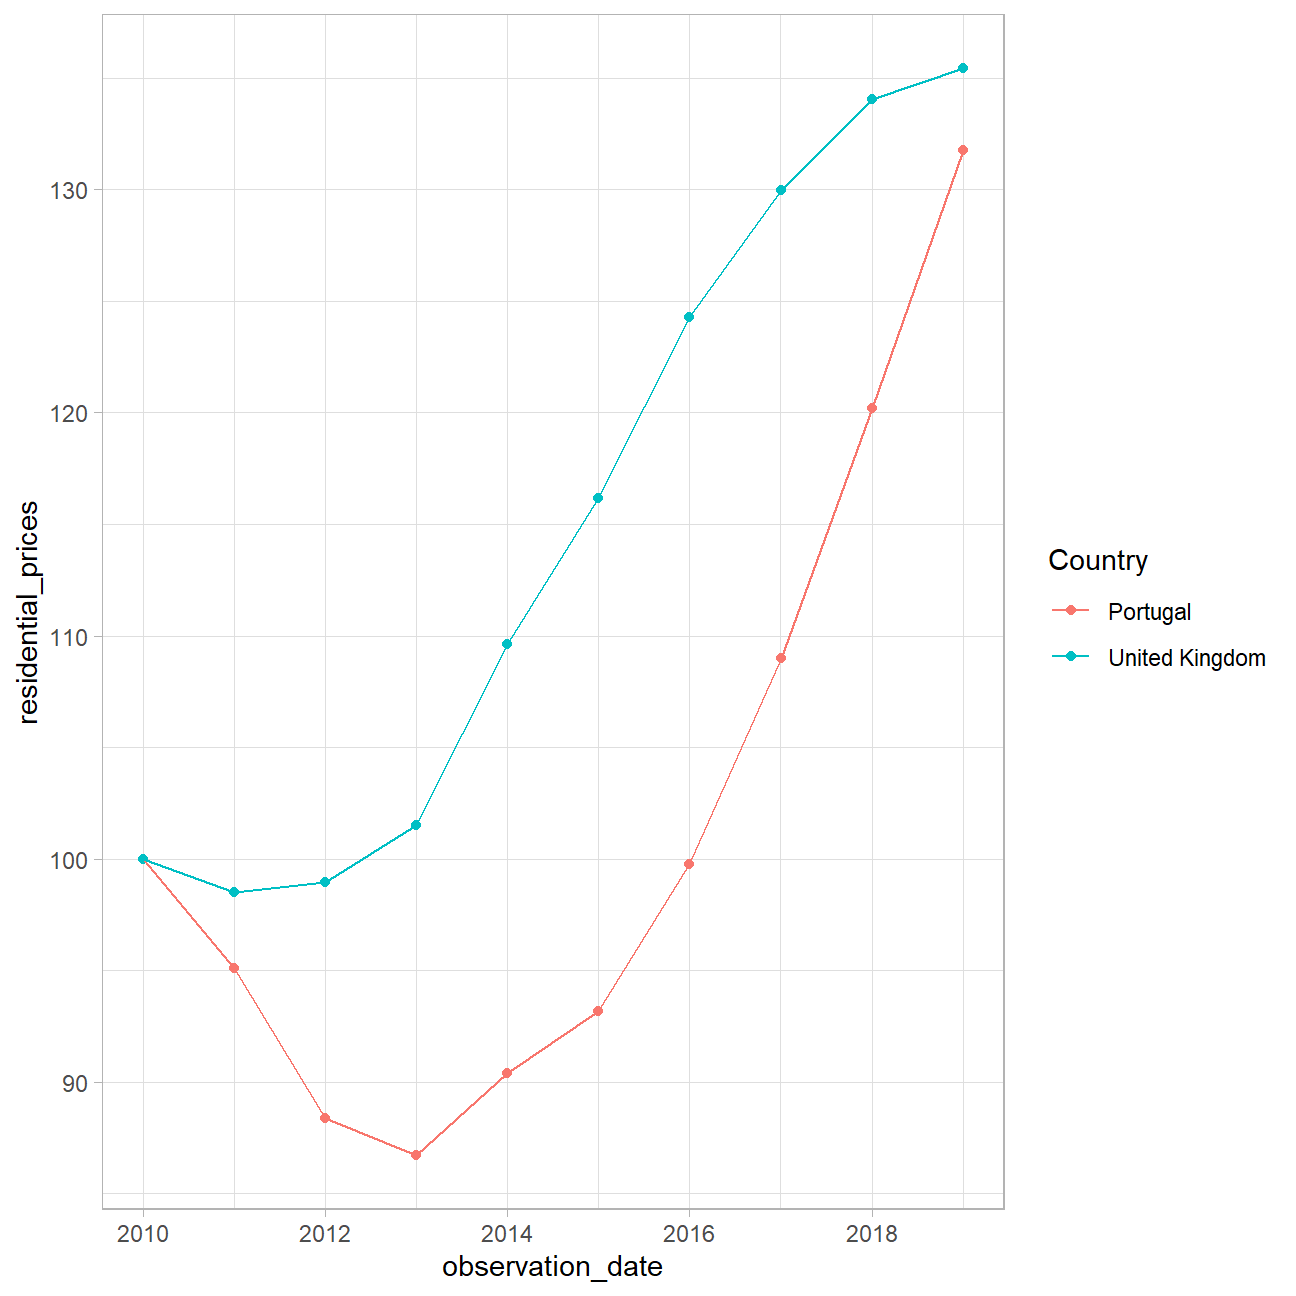
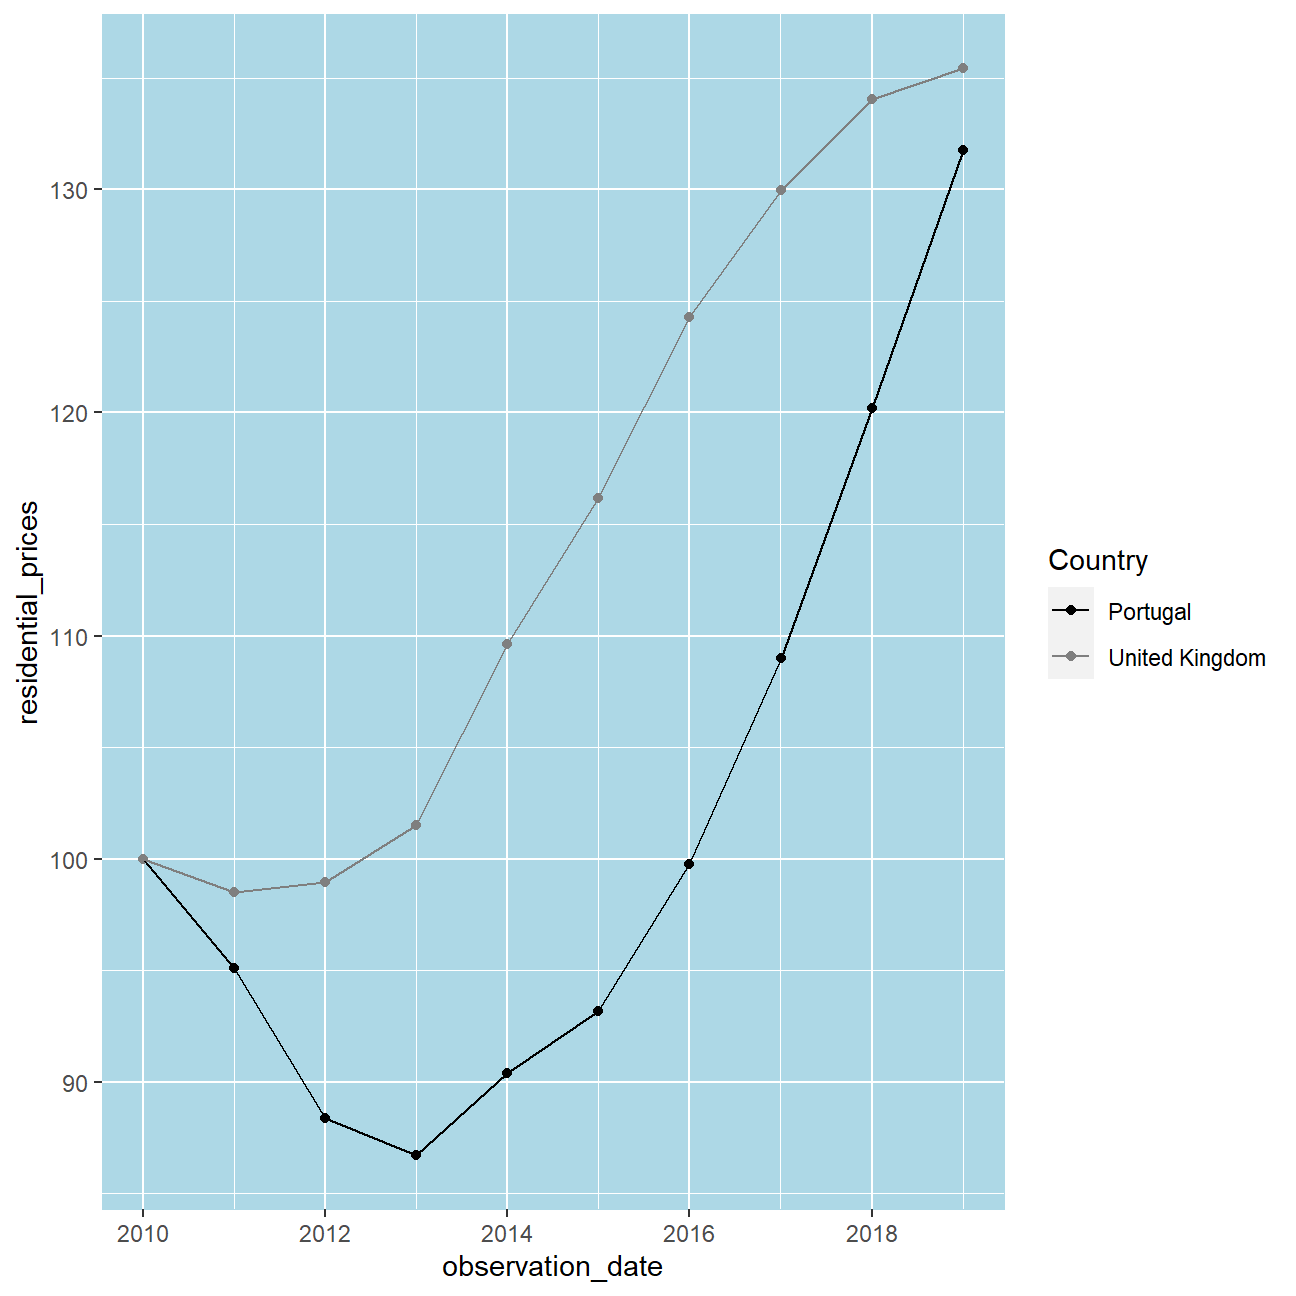
n

diff --git a/content/projects/project4/index.html b/content/projects/project4/index.html
@@ -23,7 +23,10 @@ title: Covid-19
   ggplot(mapping = aes(x = `date`, y = `total_cases`, color = `location`)) +
   scale_x_date(date_breaks = &quot;2 month&quot;) +
   geom_point() +
-  theme_light()
+  theme(panel.background = element_rect(fill = &quot;lightblue&quot;,
+                                colour = &quot;lightblue&quot;,
+                                size = 0.5, linetype = &quot;solid&quot;)) +
+  scale_colour_manual(values = &quot;grey50&quot;)
 
 plot1c</code></pre>
 <p><img src="/projects/project4/index_files/figure-html/unnamed-chunk-3-1.png" width="648" style="display: block; margin: auto;" /></p>
@@ -32,7 +35,11 @@ plot1c</code></pre>
   ggplot(mapping = aes(x = `date`, y = `total_cases_per_million`, color = `location`)) +
   scale_x_date(date_breaks = &quot;2 month&quot;) +
   geom_point() +
-  theme_light()
+  theme(panel.background = element_rect(fill = &quot;lightblue&quot;,
+                                colour = &quot;lightblue&quot;,
+                                size = 0.5, linetype = &quot;solid&quot;)) +
+  scale_colour_manual(values = c(&quot;grey50&quot;, &quot;black&quot;, &quot;white&quot;)) +
+  labs(y = &quot;Total cases per million&quot;, x = &quot;Date&quot;)
 
 plot2c</code></pre>
 <p><img src="/projects/project4/index_files/figure-html/unnamed-chunk-4-1.png" width="648" style="display: block; margin: auto;" /></p>

diff --git a/public/projects/project4/index.html b/public/projects/project4/index.html
@@ -91,7 +91,10 @@
   ggplot(mapping = aes(x = `date`, y = `total_cases`, color = `location`)) +
   scale_x_date(date_breaks = &quot;2 month&quot;) +
   geom_point() +
-  theme_light()
+  theme(panel.background = element_rect(fill = &quot;lightblue&quot;,
+                                colour = &quot;lightblue&quot;,
+                                size = 0.5, linetype = &quot;solid&quot;)) +
+  scale_colour_manual(values = &quot;grey50&quot;)
 
 plot1c</code></pre>
 <p><img src="/projects/project4/index_files/figure-html/unnamed-chunk-3-1.png" width="648" style="display: block; margin: auto;" /></p>
@@ -100,7 +103,11 @@ plot1c</code></pre>
   ggplot(mapping = aes(x = `date`, y = `total_cases_per_million`, color = `location`)) +
   scale_x_date(date_breaks = &quot;2 month&quot;) +
   geom_point() +
-  theme_light()
+  theme(panel.background = element_rect(fill = &quot;lightblue&quot;,
+                                colour = &quot;lightblue&quot;,
+                                size = 0.5, linetype = &quot;solid&quot;)) +
+  scale_colour_manual(values = c(&quot;grey50&quot;, &quot;black&quot;, &quot;white&quot;)) +
+  labs(y = &quot;Total cases per million&quot;, x = &quot;Date&quot;)
 
 plot2c</code></pre>
 <p><img src="/projects/project4/index_files/figure-html/unnamed-chunk-4-1.png" width="648" style="display: block; margin: auto;" /></p>

diff --git a/public/projects/project1/index.html b/public/projects/project1/index.html
@@ -98,17 +98,22 @@
 <pre class="r"><code>plot1 &lt;- portugal_data %&gt;% 
   ggplot(mapping = aes(x = `Year`, y = `Population`)) +
   geom_line() +
-  theme_light()
+  theme(panel.background = element_rect(fill = &quot;lightblue&quot;,
+                                colour = &quot;lightblue&quot;,
+                                size = 0.9, linetype = &quot;solid&quot;))
 
 plot1</code></pre>
 <p><img src="/projects/project1/index_files/figure-html/population_growth_Portugal-1.png" width="648" style="display: block; margin: auto;" /></p>
 <pre class="r"><code>plot2 &lt;- portugal_data %&gt;% 
   ggplot(mapping = aes(x = `Year`, y = `GDP`)) +
   geom_line() +
-  theme_light()
+  theme(panel.background = element_rect(fill = &quot;lightblue&quot;,
+                                colour = &quot;lightblue&quot;,
+                                size = 0.9, linetype = &quot;solid&quot;))
 
 plot2</code></pre>
 <p><img src="/projects/project1/index_files/figure-html/GDP_growth_Portugal-1.png" width="648" style="display: block; margin: auto;" /></p>
+<p>Source: <a href="https://databank.worldbank.org/reports.aspx?source=2&amp;series=SP.POP.TOTL&amp;country=PRT#" class="uri">https://databank.worldbank.org/reports.aspx?source=2&amp;series=SP.POP.TOTL&amp;country=PRT#</a></p>
 </div>
 
                         </div>

diff --git a/content/projects/project1/index.html b/content/projects/project1/index.html
@@ -30,15 +30,20 @@ categories:
 <pre class="r"><code>plot1 &lt;- portugal_data %&gt;% 
   ggplot(mapping = aes(x = `Year`, y = `Population`)) +
   geom_line() +
-  theme_light()
+  theme(panel.background = element_rect(fill = &quot;lightblue&quot;,
+                                colour = &quot;lightblue&quot;,
+                                size = 0.9, linetype = &quot;solid&quot;))
 
 plot1</code></pre>
 <p><img src="/projects/project1/index_files/figure-html/population_growth_Portugal-1.png" width="648" style="display: block; margin: auto;" /></p>
 <pre class="r"><code>plot2 &lt;- portugal_data %&gt;% 
   ggplot(mapping = aes(x = `Year`, y = `GDP`)) +
   geom_line() +
-  theme_light()
+  theme(panel.background = element_rect(fill = &quot;lightblue&quot;,
+                                colour = &quot;lightblue&quot;,
+                                size = 0.9, linetype = &quot;solid&quot;))
 
 plot2</code></pre>
 <p><img src="/projects/project1/index_files/figure-html/GDP_growth_Portugal-1.png" width="648" style="display: block; margin: auto;" /></p>
+<p>Source: <a href="https://databank.worldbank.org/reports.aspx?source=2&amp;series=SP.POP.TOTL&amp;country=PRT#" class="uri">https://databank.worldbank.org/reports.aspx?source=2&amp;series=SP.POP.TOTL&amp;country=PRT#</a></p>
 </div>

diff --git a/content/projects/project3/index.html b/content/projects/project3/index.html
@@ -22,7 +22,10 @@ title: Real Estate
   ggplot(mapping = aes(x = `observation_date`, y = `%_change`, color = Country)) +
   geom_point() +
   geom_line() +
-  theme_light()
+  theme(panel.background = element_rect(fill = &quot;lightblue&quot;,
+                                colour = &quot;lightblue&quot;,
+                                size = 0.5, linetype = &quot;solid&quot;)) +
+  scale_colour_manual(values = c(&quot;black&quot;, &quot;grey50&quot;))
 
 plot1r</code></pre>
 <p><img src="/projects/project3/index_files/figure-html/unnamed-chunk-3-1.png" width="648" style="display: block; margin: auto;" /></p>
@@ -30,7 +33,10 @@ plot1r</code></pre>
   ggplot(mapping = aes(x = `observation_date`, y = `residential_prices`, color = Country)) +
   geom_point() +
   geom_line() +
-  theme_light()
+  theme(panel.background = element_rect(fill = &quot;lightblue&quot;,
+                                colour = &quot;lightblue&quot;,
+                                size = 0.5, linetype = &quot;solid&quot;)) +
+  scale_colour_manual(values = c(&quot;black&quot;, &quot;grey50&quot;))
 
 plot2r</code></pre>
 <p><img src="/projects/project3/index_files/figure-html/unnamed-chunk-4-1.png" width="648" style="display: block; margin: auto;" /></p>

diff --git a/public/projects/project3/index.html b/public/projects/project3/index.html
@@ -90,7 +90,10 @@
   ggplot(mapping = aes(x = `observation_date`, y = `%_change`, color = Country)) +
   geom_point() +
   geom_line() +
-  theme_light()
+  theme(panel.background = element_rect(fill = &quot;lightblue&quot;,
+                                colour = &quot;lightblue&quot;,
+                                size = 0.5, linetype = &quot;solid&quot;)) +
+  scale_colour_manual(values = c(&quot;black&quot;, &quot;grey50&quot;))
 
 plot1r</code></pre>
 <p><img src="/projects/project3/index_files/figure-html/unnamed-chunk-3-1.png" width="648" style="display: block; margin: auto;" /></p>
@@ -98,7 +101,10 @@ plot1r</code></pre>
   ggplot(mapping = aes(x = `observation_date`, y = `residential_prices`, color = Country)) +
   geom_point() +
   geom_line() +
-  theme_light()
+  theme(panel.background = element_rect(fill = &quot;lightblue&quot;,
+                                colour = &quot;lightblue&quot;,
+                                size = 0.5, linetype = &quot;solid&quot;)) +
+  scale_colour_manual(values = c(&quot;black&quot;, &quot;grey50&quot;))
 
 plot2r</code></pre>
 <p><img src="/projects/project3/index_files/figure-html/unnamed-chunk-4-1.png" width="648" style="display: block; margin: auto;" /></p>

diff --git a/content/projects/project5/index.html b/content/projects/project5/index.html
@@ -23,8 +23,12 @@ title: Wine
 <pre class="r"><code>plot1w &lt;- Wine_data_new %&gt;% 
   ggplot(mapping = aes(x = `Year`, y = `Wine_production_hl`)) +
   geom_point() +
-  facet_wrap(~ Localization, scales = &quot;free_y&quot;) +
-  theme_bw()
+  facet_wrap(~ Localization, scales = &quot;free_y&quot;) + 
+  theme(panel.background = element_rect(fill = &quot;lightblue&quot;,
+                                colour = &quot;lightblue&quot;,
+                                size = 0.5, linetype = &quot;solid&quot;)) +
+  labs(y = &quot;Wine production (hl)&quot;)
+  
 
 plot1w</code></pre>
 <p><img src="/projects/project5/index_files/figure-html/unnamed-chunk-3-1.png" width="648" style="display: block; margin: auto;" /></p>

diff --git a/public/projects/project5/index.html b/public/projects/project5/index.html
@@ -91,8 +91,12 @@
 <pre class="r"><code>plot1w &lt;- Wine_data_new %&gt;% 
   ggplot(mapping = aes(x = `Year`, y = `Wine_production_hl`)) +
   geom_point() +
-  facet_wrap(~ Localization, scales = &quot;free_y&quot;) +
-  theme_bw()
+  facet_wrap(~ Localization, scales = &quot;free_y&quot;) + 
+  theme(panel.background = element_rect(fill = &quot;lightblue&quot;,
+                                colour = &quot;lightblue&quot;,
+                                size = 0.5, linetype = &quot;solid&quot;)) +
+  labs(y = &quot;Wine production (hl)&quot;)
+  
 
 plot1w</code></pre>
 <p><img src="/projects/project5/index_files/figure-html/unnamed-chunk-3-1.png" width="648" style="display: block; margin: auto;" /></p>

diff --git a/public/projects/project2/index.html b/public/projects/project2/index.html
@@ -97,10 +97,14 @@
   ggplot(mapping = aes(x = `Year`, y = `Overnight_stays`)) +
   geom_point() +
   facet_wrap(~ Accomodation_type, scales = &quot;free_y&quot;) +
-  theme_light()
+  theme(panel.background = element_rect(fill = &quot;lightblue&quot;,
+                                colour = &quot;lightblue&quot;,
+                                size = 0.5, linetype = &quot;solid&quot;)) +
+  labs(y = &quot;Overnight stays&quot;)
 
 plot1t</code></pre>
 <p><img src="/projects/project2/index_files/figure-html/unnamed-chunk-3-1.png" width="648" style="display: block; margin: auto;" /></p>
+<p>Source:</p>
 </div>
 
                         </div>

diff --git a/content/projects/project2/index.html b/content/projects/project2/index.html
@@ -29,8 +29,12 @@ title: Tourism
   ggplot(mapping = aes(x = `Year`, y = `Overnight_stays`)) +
   geom_point() +
   facet_wrap(~ Accomodation_type, scales = &quot;free_y&quot;) +
-  theme_light()
+  theme(panel.background = element_rect(fill = &quot;lightblue&quot;,
+                                colour = &quot;lightblue&quot;,
+                                size = 0.5, linetype = &quot;solid&quot;)) +
+  labs(y = &quot;Overnight stays&quot;)
 
 plot1t</code></pre>
 <p><img src="/projects/project2/index_files/figure-html/unnamed-chunk-3-1.png" width="648" style="display: block; margin: auto;" /></p>
+<p>Source:</p>
 </div>
